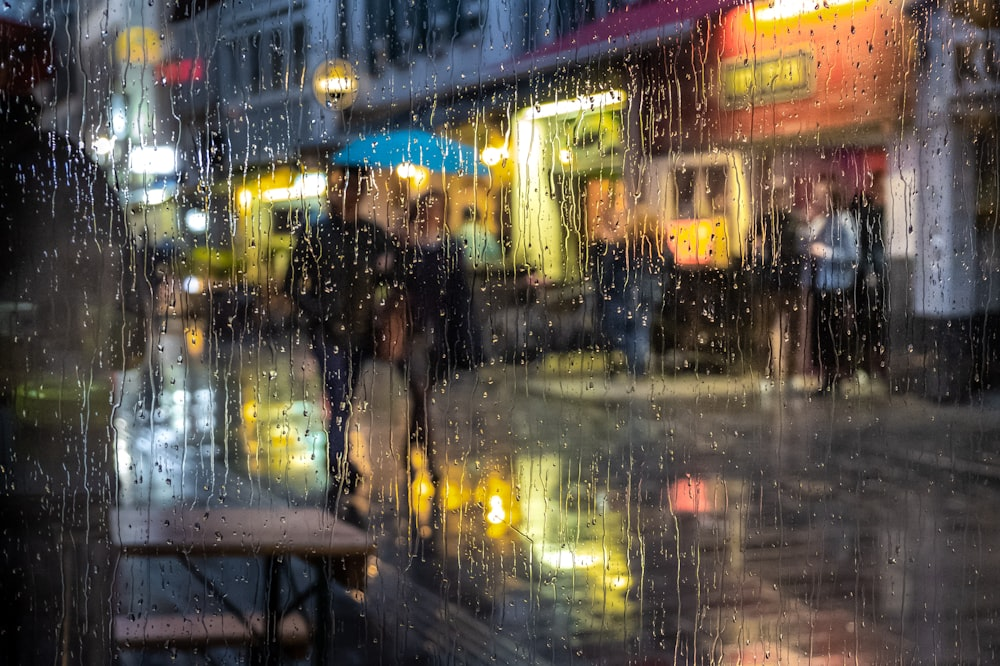
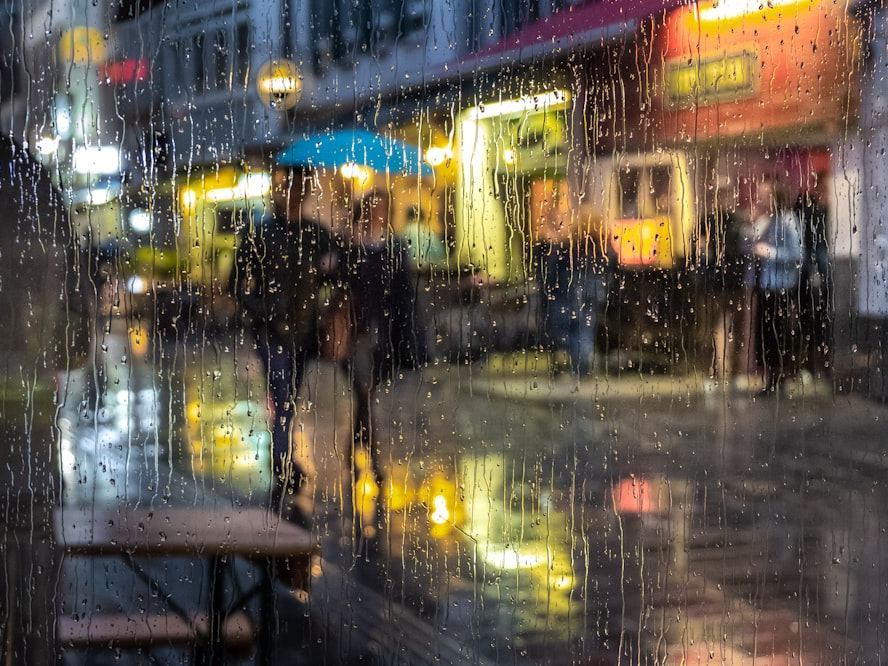
Optimize images: crop to display ratio, add WebP, fix aspect bug
- Crop the two portrait source photos (bookshelf, morning-light) down
  to the 4:3 they're actually displayed at instead of shipping ~750px
  of height that CSS just cropped away client-side
- Re-encode all 5 as optimized progressive JPEG + WebP; total payload
  drops from ~977KB to ~555KB (JPEG) / ~367KB (WebP, what browsers
  will actually fetch)
- Serve via <picture><source type="webp">, JPEG as fallback
- Add explicit width/height + decoding="async" to every img
- Fix an aspect-ratio bug: the width/height attributes were pinning
  height via the presentational hint, overriding CSS aspect-ratio and
  silently stretching the gallery photos to the wrong ratio; added
  height:auto so aspect-ratio wins as intended
- loading="lazy" was already in place, confirmed all 5 images defer
  until scrolled into view

diff --git a/index.html b/index.html
@@ -8,7 +8,7 @@
   <link rel="preconnect" href="https://fonts.googleapis.com">
   <link rel="preconnect" href="https://fonts.gstatic.com" crossorigin>
   <link href="https://fonts.googleapis.com/css2?family=Fraunces:ital,opsz,wght@0,9..144,300;0,9..144,500;0,9..144,600;0,9..144,700;1,9..144,500;1,9..144,600&family=Inter:wght@400;500;600&family=Caveat:wght@500;600&display=swap" rel="stylesheet">
-  <link rel="stylesheet" href="style.css?v=7">
+  <link rel="stylesheet" href="style.css?v=9">
 </head>
 <body>
 
@@ -255,22 +255,34 @@
 
         <div class="gallery">
           <figure class="art-block gallery__item gallery__item--a" data-reveal>
-            <img src="images/bar-counter.jpg" alt="Барная стойка ХВОЯ" loading="lazy">
+            <picture>
+              <source srcset="images/bar-counter.webp" type="image/webp">
+              <img src="images/bar-counter.jpg" alt="Барная стойка ХВОЯ" width="889" height="667" loading="lazy" decoding="async">
+            </picture>
             <figcaption>Барная стойка</figcaption>
           </figure>
 
           <figure class="art-block gallery__item gallery__item--b" data-reveal data-reveal-delay="1">
-            <img src="images/rain-window.jpg" alt="Вид на дождь через окно кофейни" loading="lazy">
+            <picture>
+              <source srcset="images/rain-window.webp" type="image/webp">
+              <img src="images/rain-window.jpg" alt="Вид на дождь через окно кофейни" width="888" height="666" loading="lazy" decoding="async">
+            </picture>
             <figcaption>Окно и дождь</figcaption>
           </figure>
 
           <figure class="art-block gallery__item gallery__item--c" data-reveal>
-            <img src="images/bookshelf.jpg" alt="Полка с книгами в кофейне" loading="lazy">
+            <picture>
+              <source srcset="images/bookshelf.webp" type="image/webp">
+              <img src="images/bookshelf.jpg" alt="Полка с книгами в кофейне" width="1000" height="750" loading="lazy" decoding="async">
+            </picture>
             <figcaption>Полка с книгами</figcaption>
           </figure>
 
           <figure class="art-block gallery__item gallery__item--d" data-reveal data-reveal-delay="1">
-            <img src="images/morning-light.jpg" alt="Утренний свет и чашка кофе" loading="lazy">
+            <picture>
+              <source srcset="images/morning-light.webp" type="image/webp">
+              <img src="images/morning-light.jpg" alt="Утренний свет и чашка кофе" width="1000" height="750" loading="lazy" decoding="async">
+            </picture>
             <figcaption>Утренний свет</figcaption>
           </figure>
         </div>
@@ -304,7 +316,10 @@
         </div>
 
         <div class="visit__map art-block" data-reveal data-reveal-delay="1">
-          <img src="images/storefront.jpg" alt="Витрины ХВОЯ вечером, тёплый свет из окон" loading="lazy">
+          <picture>
+            <source srcset="images/storefront.webp" type="image/webp">
+            <img src="images/storefront.jpg" alt="Витрины ХВОЯ вечером, тёплый свет из окон" width="1000" height="667" loading="lazy" decoding="async">
+          </picture>
           <span class="visit__pin" aria-hidden="true">
             <svg viewBox="0 0 40 46" fill="none">
               <path d="M20 4c-11 0-20 9-20 20 0 15 20 22 20 22s20-7 20-22c0-11-9-20-20-20Z" stroke="currentColor" stroke-width="1.6"/>

diff --git a/style.css b/style.css
@@ -44,7 +44,7 @@ body {
   -webkit-font-smoothing: antialiased;
 }
 
-img, svg { display: block; max-width: 100%; }
+img, svg, picture { display: block; max-width: 100%; }
 
 a { color: inherit; text-decoration: none; }
 
@@ -651,6 +651,7 @@ section { padding: 88px 0; }
 
 .gallery__item img {
   width: 100%;
+  height: auto;
   aspect-ratio: 4 / 3;
   object-fit: cover;
   filter: grayscale(55%) contrast(0.96) brightness(0.98);
